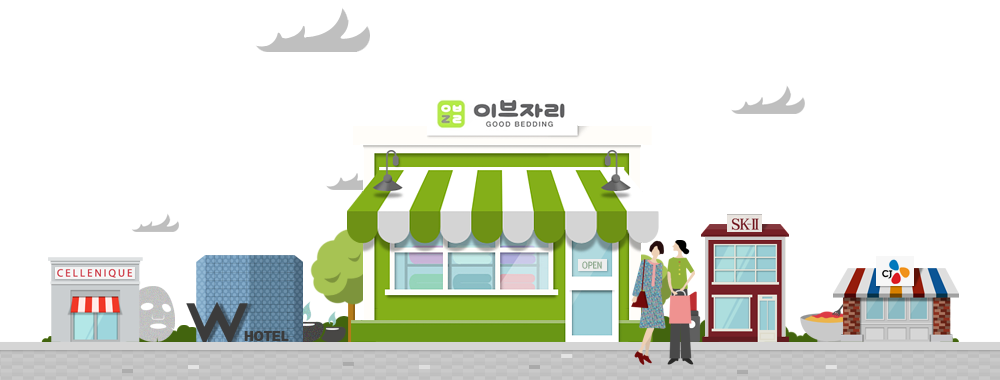
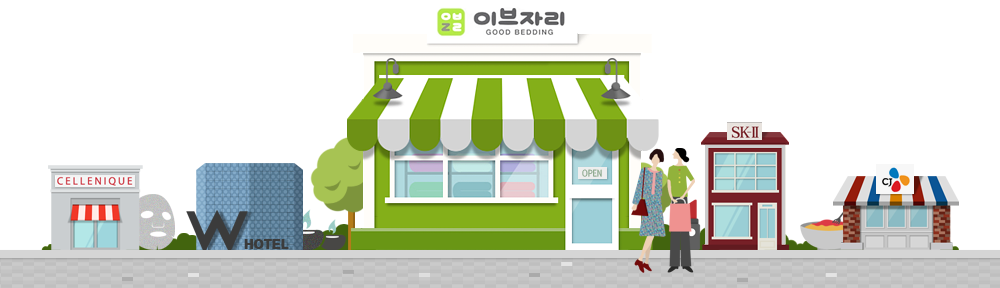
Cloud move and Fix Browser Bug.
Cloud move and Fix Browser Bug.

diff --git a/public/js/ef.js b/public/js/ef.js
@@ -1,5 +1,7 @@
 // Must include 'jquery-2.1.0.min.js'
 // Must include 'jquery-modal.min.js'
+var c1, c2, c3, c4;
+
 $(document).ready(function() {
 	if( detectDevice() == true )
 	{
@@ -11,6 +13,20 @@ $(document).ready(function() {
 	else
 	{
 		$('#indexBody').load('./html/web.html', function() {
+
+			if( navigator.appVersion.indexOf("MSIE 6.0") >= 0 
+				|| navigator.appVersion.indexOf("MSIE 7.0") >= 0 
+				|| navigator.appVersion.indexOf("MSIE 8.0") >= 0 ) {
+				$('#applyBtnI').css("margin-left", "354px")
+			} else {
+				// 구름 실시간 움직임
+				c1 = ( ( Math.random() * 1000 ) + 100 ) / 1000;
+				c2 = ( ( Math.random() * 1000 ) + 100 ) / 1000;
+				c3 = ( ( Math.random() * 1000 ) + 100 ) / 1000;
+				c4 = ( ( Math.random() * 1000 ) + 100 ) / 1000;
+				setInterval( loopCloud, 1);
+			}
+
 			// '데이트 신청하기' 버튼 클릭시
 			$('#applyButton').click(function(){
 				$('#popUp').load('./html/popUp_1.html', function() {
@@ -102,4 +118,58 @@ function detectDevice(){
 		return true;
 	else
 		return false;
+}
+
+function loopCloud(){
+	var c1_left = parseFloat($('#cloud_1').css('margin-left'));
+	c1_left += c1;
+	if( c1_left >= 1000 )
+	{
+		c1_left = -200;
+		c1 = ( ( Math.random() * 1000 ) + 100 ) / 1000;
+	}
+	else if(c1_left == 0)
+	{
+		c1_left += 1;
+	}
+	$('#cloud_1').css('margin-left', c1_left);
+
+	var c2_left = parseFloat($('#cloud_2').css('margin-left'));
+	c2_left += c2;
+	if( c2_left >= 1000 )
+	{
+		c2_left = -200;
+		c2 = ( ( Math.random() * 1000 ) + 100 ) / 1000;
+	}	
+	else if(c2_left == 0)
+	{
+		c2_left += 1;
+	}
+	$('#cloud_2').css('margin-left', c2_left);
+
+	var c3_left = parseFloat($('#cloud_3').css('margin-left'));
+	c3_left += c3;
+	if( c3_left >= 1000 )
+	{
+		c3_left = -200;
+		c3 = ( ( Math.random() * 1000 ) + 100 ) / 1000;
+	}
+	else if(c3_left == 0)
+	{
+		c3_left += 1;
+	}
+	$('#cloud_3').css('margin-left', c3_left);
+
+	var c4_left = parseFloat($('#cloud_4').css('margin-left'));
+	c4_left += c4;
+	if( c4_left >= 1000 )
+	{
+		c4_left = -200;
+		c4 = ( ( Math.random() * 1000 ) + 100 ) / 1000;
+	}
+	else if(c4_left == 0)
+	{
+		c4_left += 1;
+	}
+	$('#cloud_4').css('margin-left', c4_left);
 }

diff --git a/public/html/web.html b/public/html/web.html
@@ -16,8 +16,15 @@
 	<div class = "applyBox">
 		<!--applyBackBox : 신청하기 및 배경 이미지 컨테이너-->
 		<div class = "applyBackBox">
+			<div class = "" style = "width: 1000px; height: 220px; position: relative; overflow: hidden; text-align: left;">
+				<img src = "./image/main/cloud/cloud_1.png" id = "cloud_1" alt = "cloud_1"/>
+				<img src = "./image/main/cloud/cloud_2.png" id = "cloud_2" alt = "cloud_2"/>
+				<img src = "./image/main/cloud/cloud_3.png" id = "cloud_3" alt = "cloud_3"/>
+				<img src = "./image/main/cloud/cloud_4.png" id = "cloud_4" alt = "cloud_4"/>
+			</div>
+			<div class = "" style = "width: 1000px; height: 288px; margin-top: -140px; position: absolute; background-image: url('./image/main/characterImage.png');"></div>
 			<a id = "applyButton" href = "#">
-				<img src = "./image/main/apply.png" class = "applyBtn"  alt = "apply"/>
+				<img src = "./image/main/apply.png" id = "applyBtnI"  alt = "apply"/>
 			</a>
 		</div>
 		<img src = "./image/main/gift.png" alt = "gift"/>

diff --git a/public/style/webStyle.css b/public/style/webStyle.css
@@ -34,10 +34,32 @@
 	height: 380px;
 	margin-top: 72px;
 	margin-bottom: 48px;
-	background-image: url("../image/main/characterImage.png");
 }
-.applyBtn{
-	margin-top: -34px;
+#applyBtnI{
+	position: absolute;
+	margin-top: -254px;
+	margin-left: -147px;
+}
+
+#cloud_1{
+	position: absolute;
+	margin-top: 0px;
+	margin-left: 0px;
+}
+#cloud_2{
+	position: absolute;
+	margin-top: 66px;
+	margin-left: 250px;
+}
+#cloud_3{
+	position: absolute;
+	margin-top: 132px;
+	margin-left: 500px;
+}
+#cloud_4{
+	position: absolute;
+	margin-top: 198px;
+	margin-left: 1000px;
 }
 
 .shareBox{
@@ -53,7 +75,7 @@
 	margin-right: 16px;
 }
 .shareButton{
-	margin: 12px;
+	margin-top: 12px;
 }
 .shareButtonBox{
 	margin-top: -108px;
